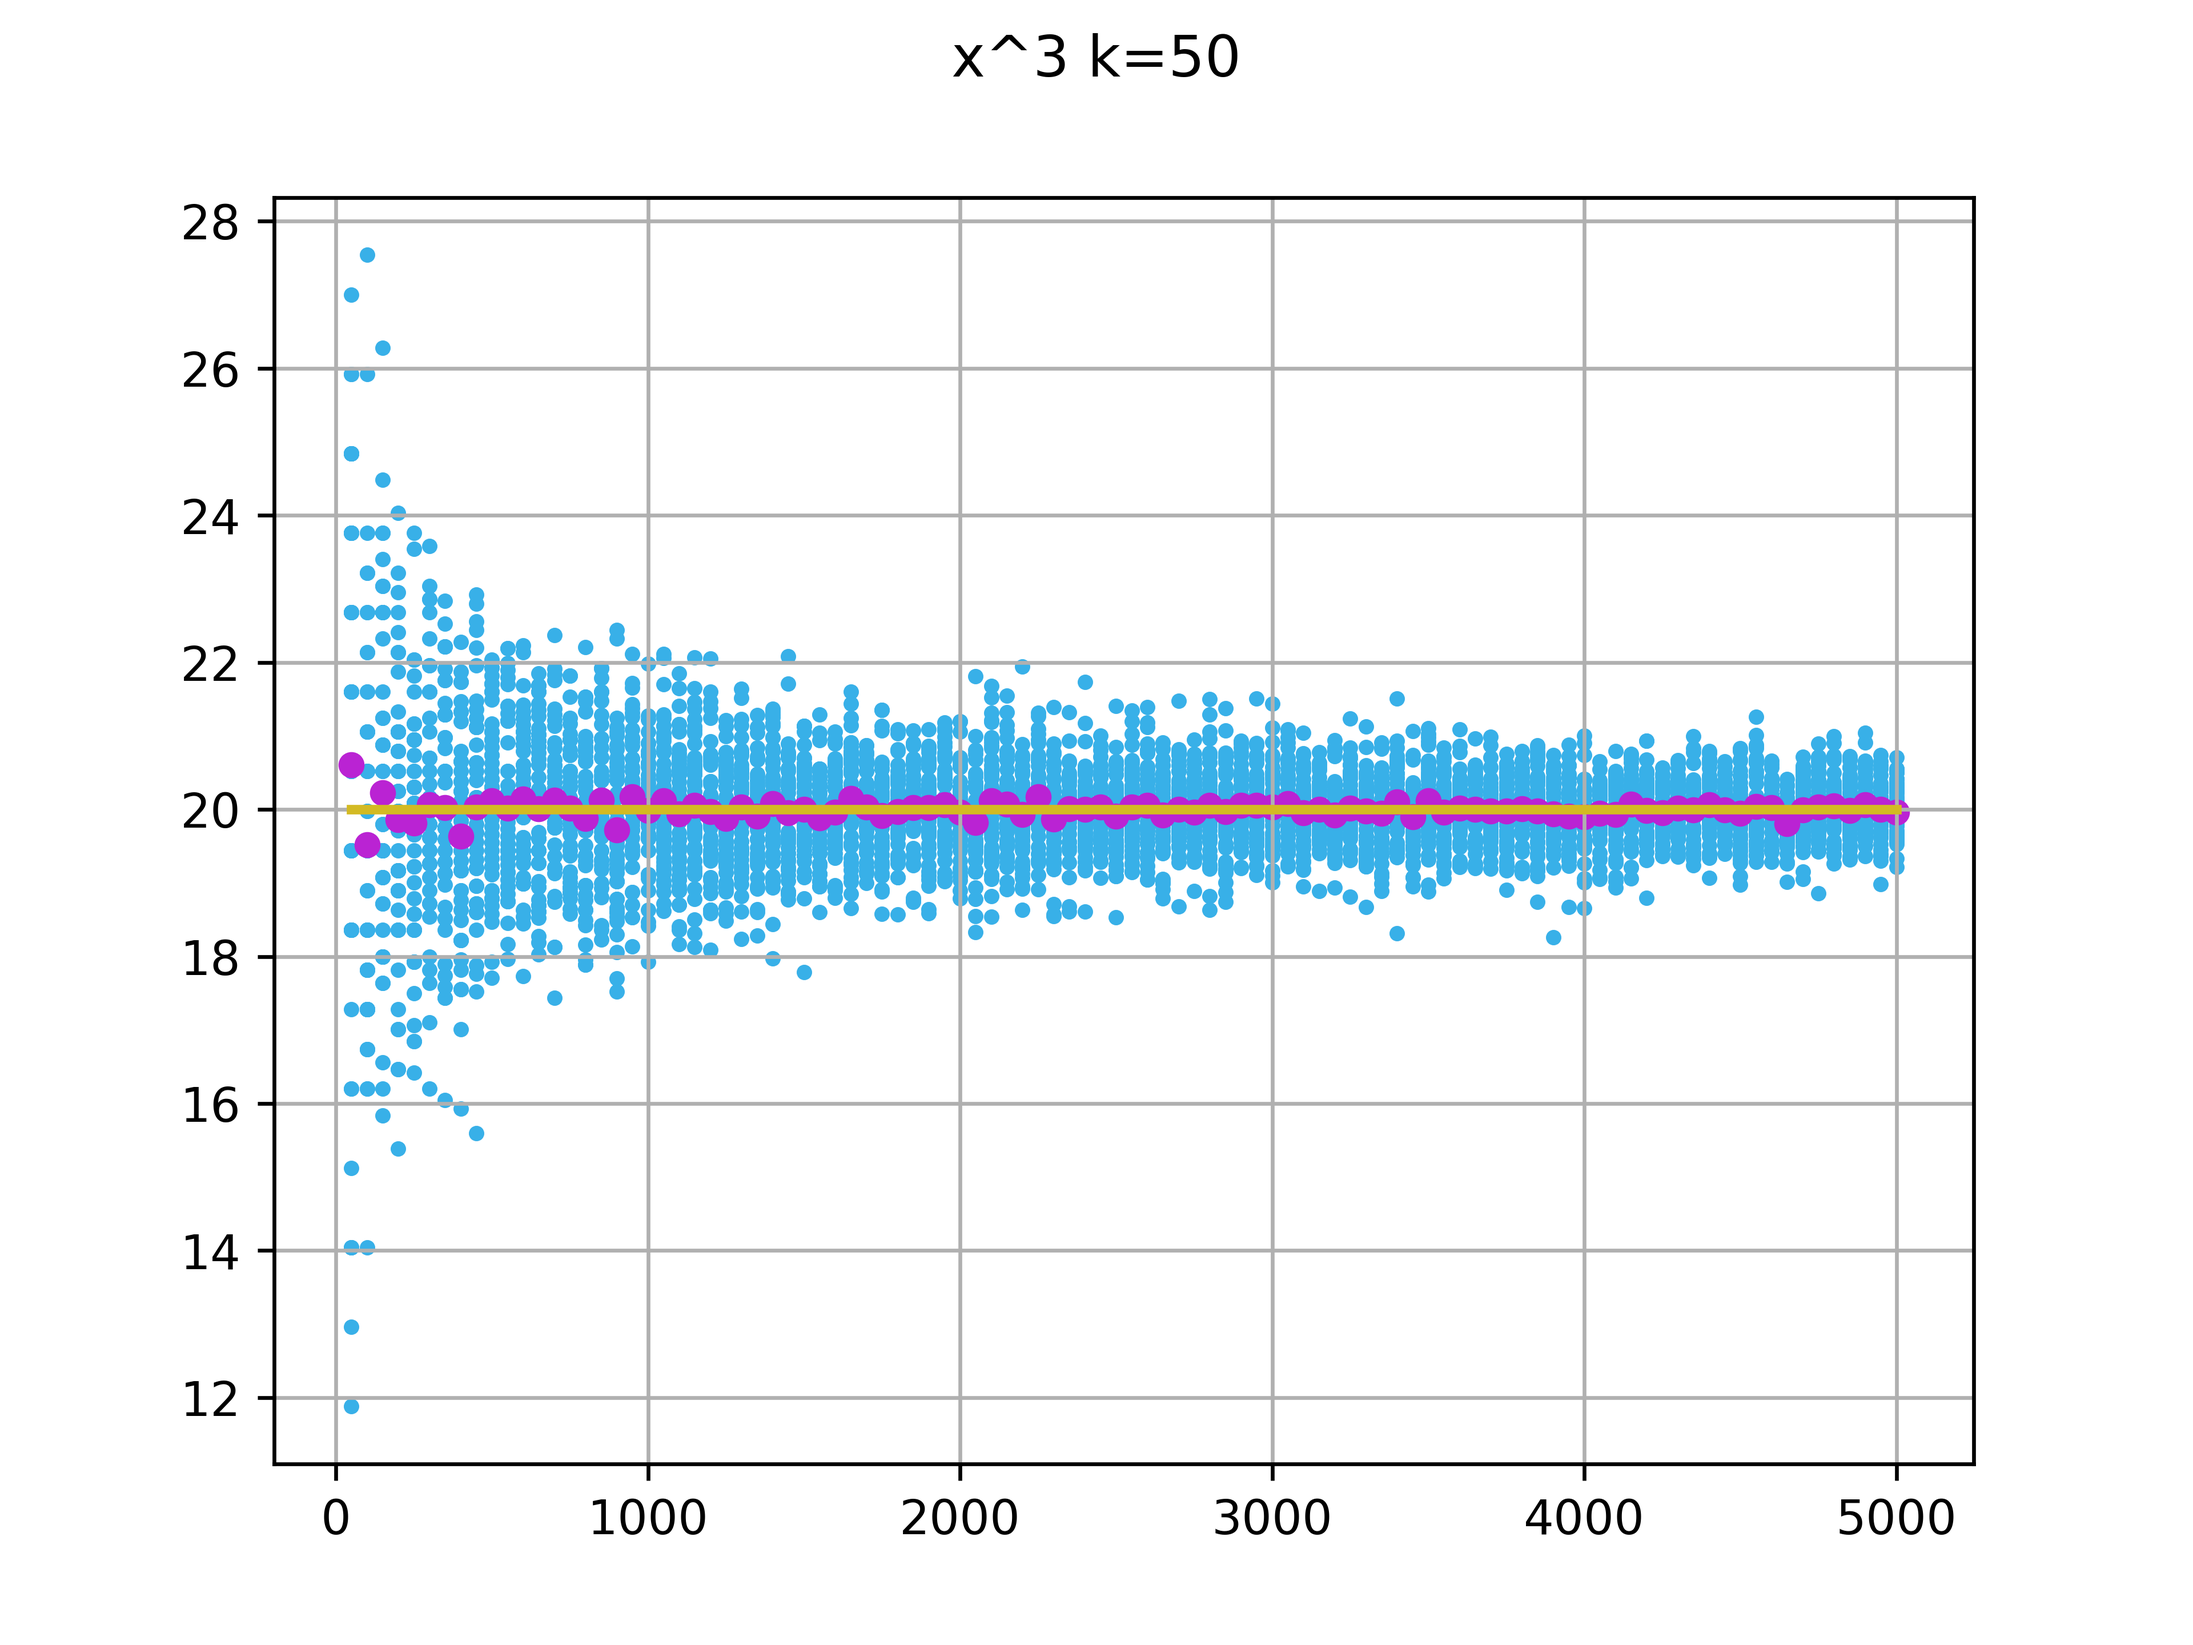
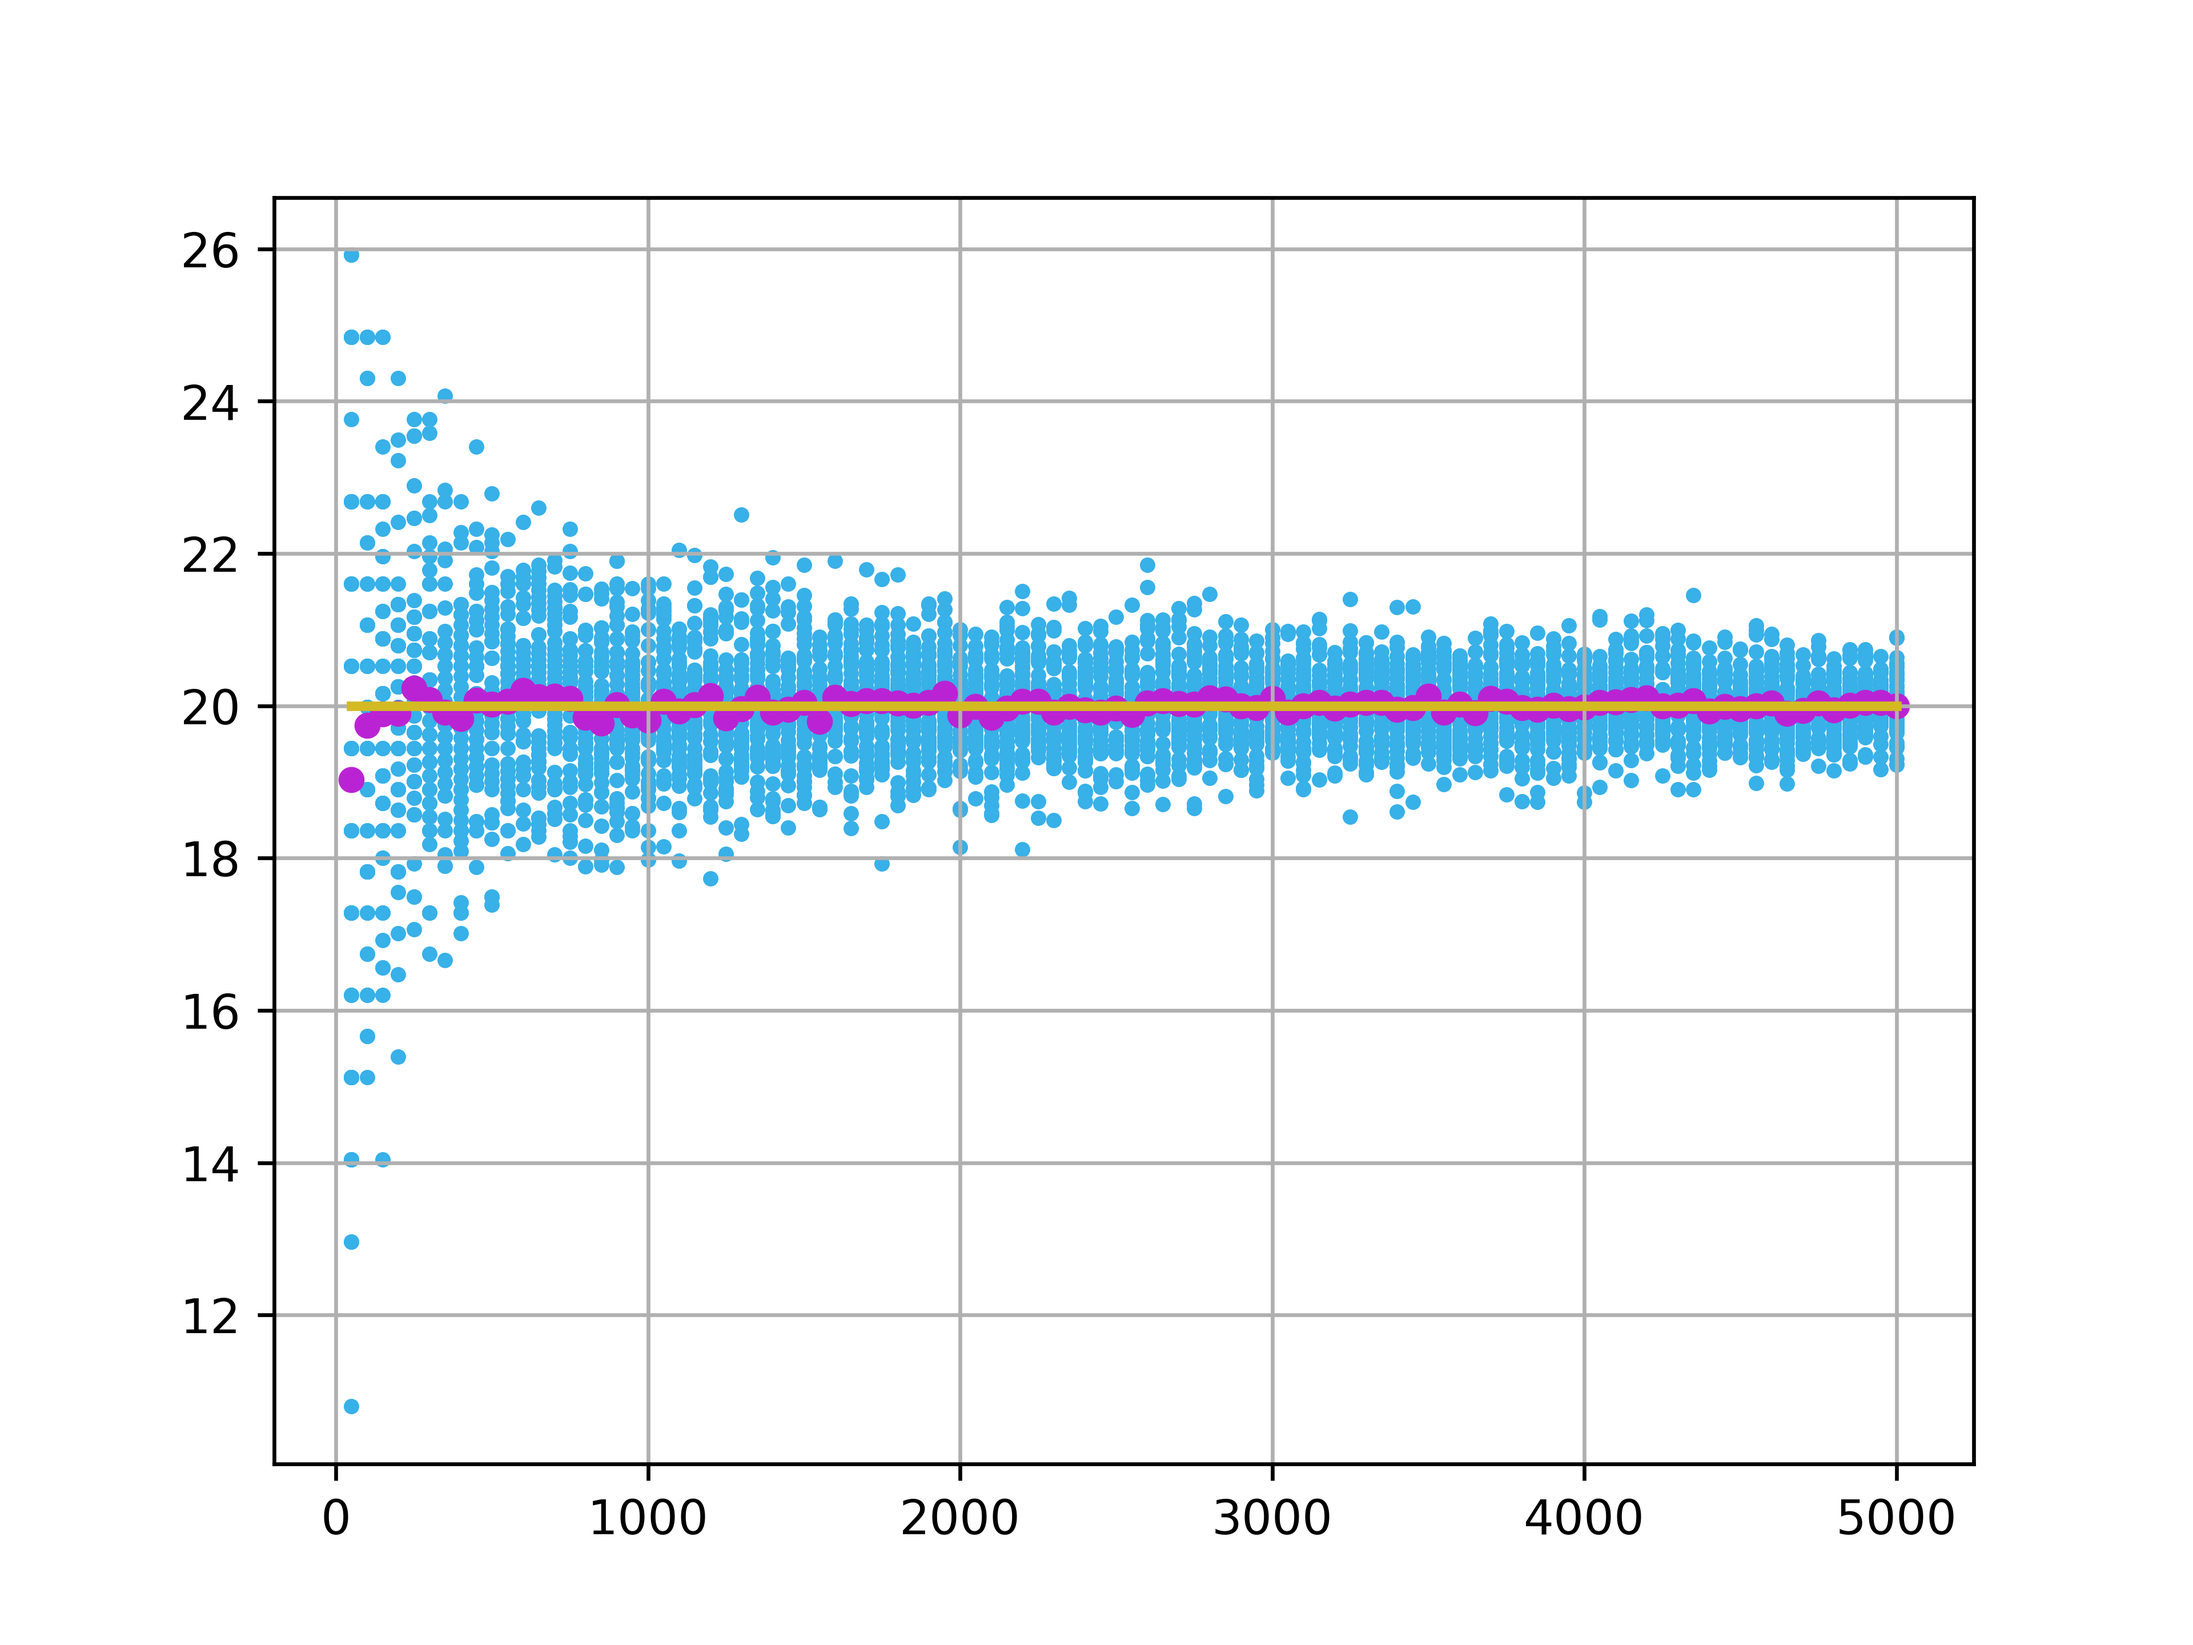
no title on figures generated for the paper

diff --git a/rach-prob/l1/main.py b/rach-prob/l1/main.py
@@ -141,7 +141,7 @@ class MonteCarloIntegral:
 
 def run_experiment(
         mci: MonteCarloIntegral, k: int, expected: float, 
-        title: str, filename: str | None = None, 
+        title: str | None = None, filename: str | None = None, 
         transform: None | TransformType = None, showplt: bool = True):
     result = mci.go(k)
     y, x = mci.as_plt(k, result)
@@ -160,7 +160,8 @@ def run_experiment(
     ax.plot([meanx[0], meanx[len(meanx)-1]],
              [expected, expected], color="#D3BA23", linewidth=2)
 
-    fig.suptitle(f'{title} k={k}')
+    if title:
+        fig.suptitle(f'{title} k={k}')
     ax.xaxis.set_label('N')
     ax.yaxis.set_label('Approx Value')
     ax.grid(True)
@@ -234,7 +235,7 @@ def main():
 
         for k in KS:
             for mci, expected, transform, title in integrals:
-                run_experiment(mci, k, expected, title, f'{title}-{k}.png', transform, showplt=False)
+                run_experiment(mci, k, expected, None, f'{title}-{k}.png', transform, showplt=False)
 
 if __name__ == '__main__':
     main()
